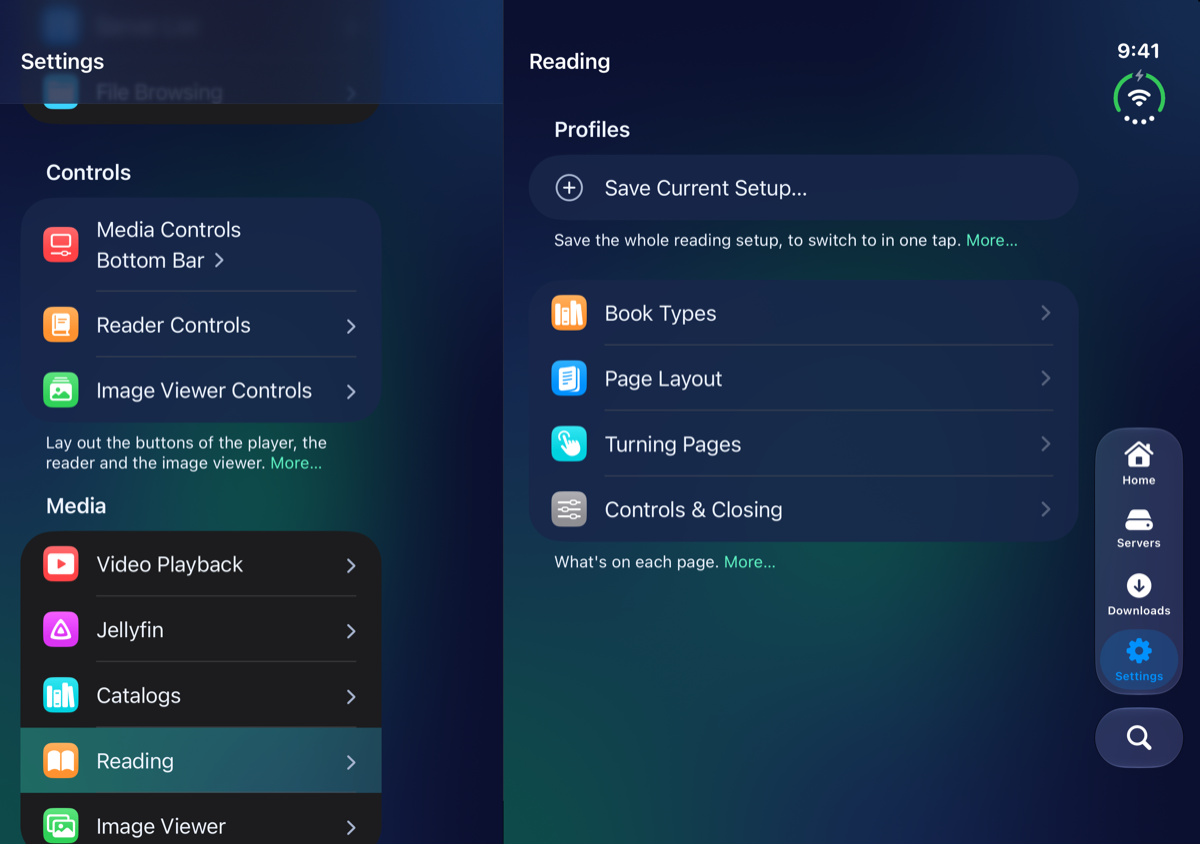
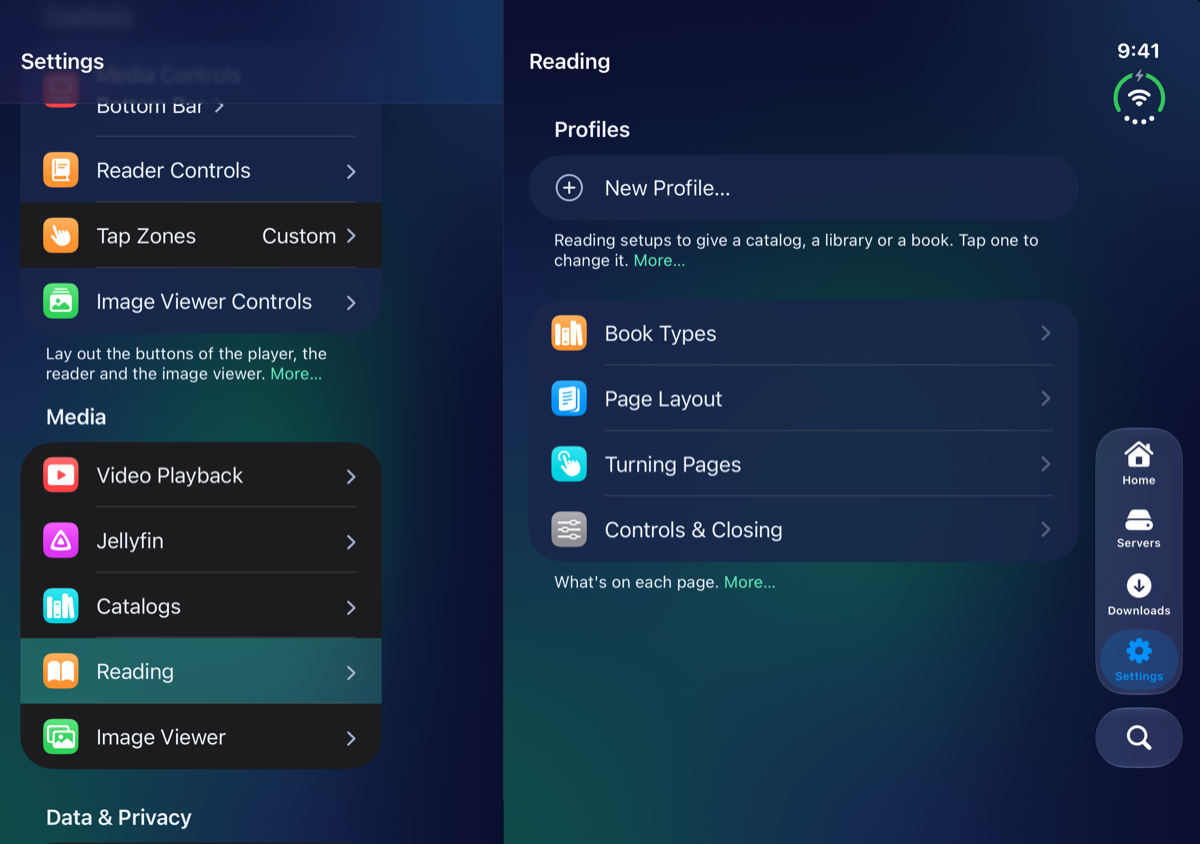
Publish the guide (from 9f31285)

Changed region(s): [[0.0, 0.0, 0.3392, 1.0], [0.4317, 0.2773, 0.8633, 0.7085], [0.4933, 0.2156, 0.6783, 0.2464]]

diff --git a/whats-new.md b/whats-new.md
@@ -12,6 +12,30 @@ The highlights of each MK Plus update since public TestFlight testing began (ver
 
 ## November 2026
 
+### Each reading profile has its own page
+
+_Version 1.370.0 · 14 November 2026_
+
+- Tap a reading profile in Settings → Reading to change what's in it: turn styles, direction, spreads, tap zones, how EPUBs look and Read Aloud.
+- Rename, duplicate or delete a profile, or Make Default to copy it into Settings → Reading.
+
+<img src="images/iphone-18-pro-max/reading-profile-page.png" width="300" alt="A reading profile called Manga on its own page, on an iPhone 18 Pro Max: Book Types, Page Layout and Turning Pages, then Used By, and the … button at the top right">
+
+<details markdown="1">
+<summary>Everything in 1.370.0</summary>
+
+**New**
+
+- Each profile in Settings → Reading → Profiles opens its own page: Book Types, Page Layout and Turning Pages for that profile, and where it's used. The … button has Make Default, Rename, Duplicate and Delete.
+- New Profile starts a profile from Settings → Reading as it is now.
+- Play Narration When a Book Opens in Settings → Reading → Turning Pages, for every book: a book with its own narration starts reading aloud as it opens. A catalog can still turn it on for just its own books.
+
+**Changed**
+
+- Tapping a profile opens it instead of switching to it. To switch, open it and tap Make Default, or pick it in a book's Reading Options as before.
+
+</details>
+
 ### Pick the read-aloud highlight color
 
 _Version 1.368.0 · 14 November 2026_

diff --git a/Reader.md b/Reader.md
@@ -86,7 +86,13 @@ Turn on **This Book Only** and what you change here belongs to that one book, so
 
 ### Reading Profiles
 
-A profile saves your whole reading setup under a name, such as Manga. In Settings → **Reading**, tap **Save Current Setup…**, give it a name and tap **Save**. After that, choose it in Reading Options under **Profile**, or from Settings → Reading. Saving under a name you've used already updates that profile.
+A profile saves a reading setup under a name, such as Manga. In Settings → **Reading**, tap **New Profile…**, give it a name and tap **Save**: it starts from your settings as they are now.
+
+Tap a profile to open its own page. **Book Types**, **Page Layout** and **Turning Pages** there change only that profile: turn styles, reading direction, spreads, tap zones, how EPUBs look and Read Aloud. **Used By** lists where it's used. The **…** button has **Make Default**, which copies the profile into Settings → Reading, plus **Rename**, **Duplicate** and **Delete**. To switch to a profile from a book, choose it in Reading Options under **Profile**.
+
+<div class="shot" markdown="0">
+<div class="shot-variant shot-iphone-18-pro-max"><img src="images/iphone-18-pro-max/reading-profile-page.png" alt="A reading profile's own page on an iPhone 18 Pro Max: Book Types, Page Layout and Turning Pages, then Used By, on an iPhone 18 Pro Max" loading="lazy"><div class="shot-label">iPhone 18 Pro Max</div></div>
+</div>
 
 ## Tap zones
 

diff --git a/Settings-Media.md b/Settings-Media.md
@@ -99,7 +99,7 @@ The iPhone Duo adds two switches to **Series Pages**: see [On your device](Devic
 <div class="shot-variant shot-duo-open-side"><img src="images/duo-open-side/settings-reading.png" alt="Settings → Reading, on the iPhone Duo, open on its side" loading="lazy"><div class="shot-label">iPhone Duo — open, on its side</div></div>
 </div>
 
-Settings → **Reading** sets how comics, PDFs and EPUBs read. At the top, **Profiles** lists your saved setups: tap one to switch to it, swipe it to delete it, or tap **Save Current Setup…** to save what's set now. See [Reading Profiles](Reader.html#reading-profiles). Under it are four pages. A book can have its own settings with **This Book Only** in Reading Options.
+Settings → **Reading** sets how comics, PDFs and EPUBs read. At the top, **Profiles** lists your saved setups: tap one to open its own page and change it, or tap **New Profile…** to start one from what's set now. See [Reading Profiles](Reader.html#reading-profiles). Under it are four pages. A book can have its own settings with **This Book Only** in Reading Options.
 
 ### Book Types
 
